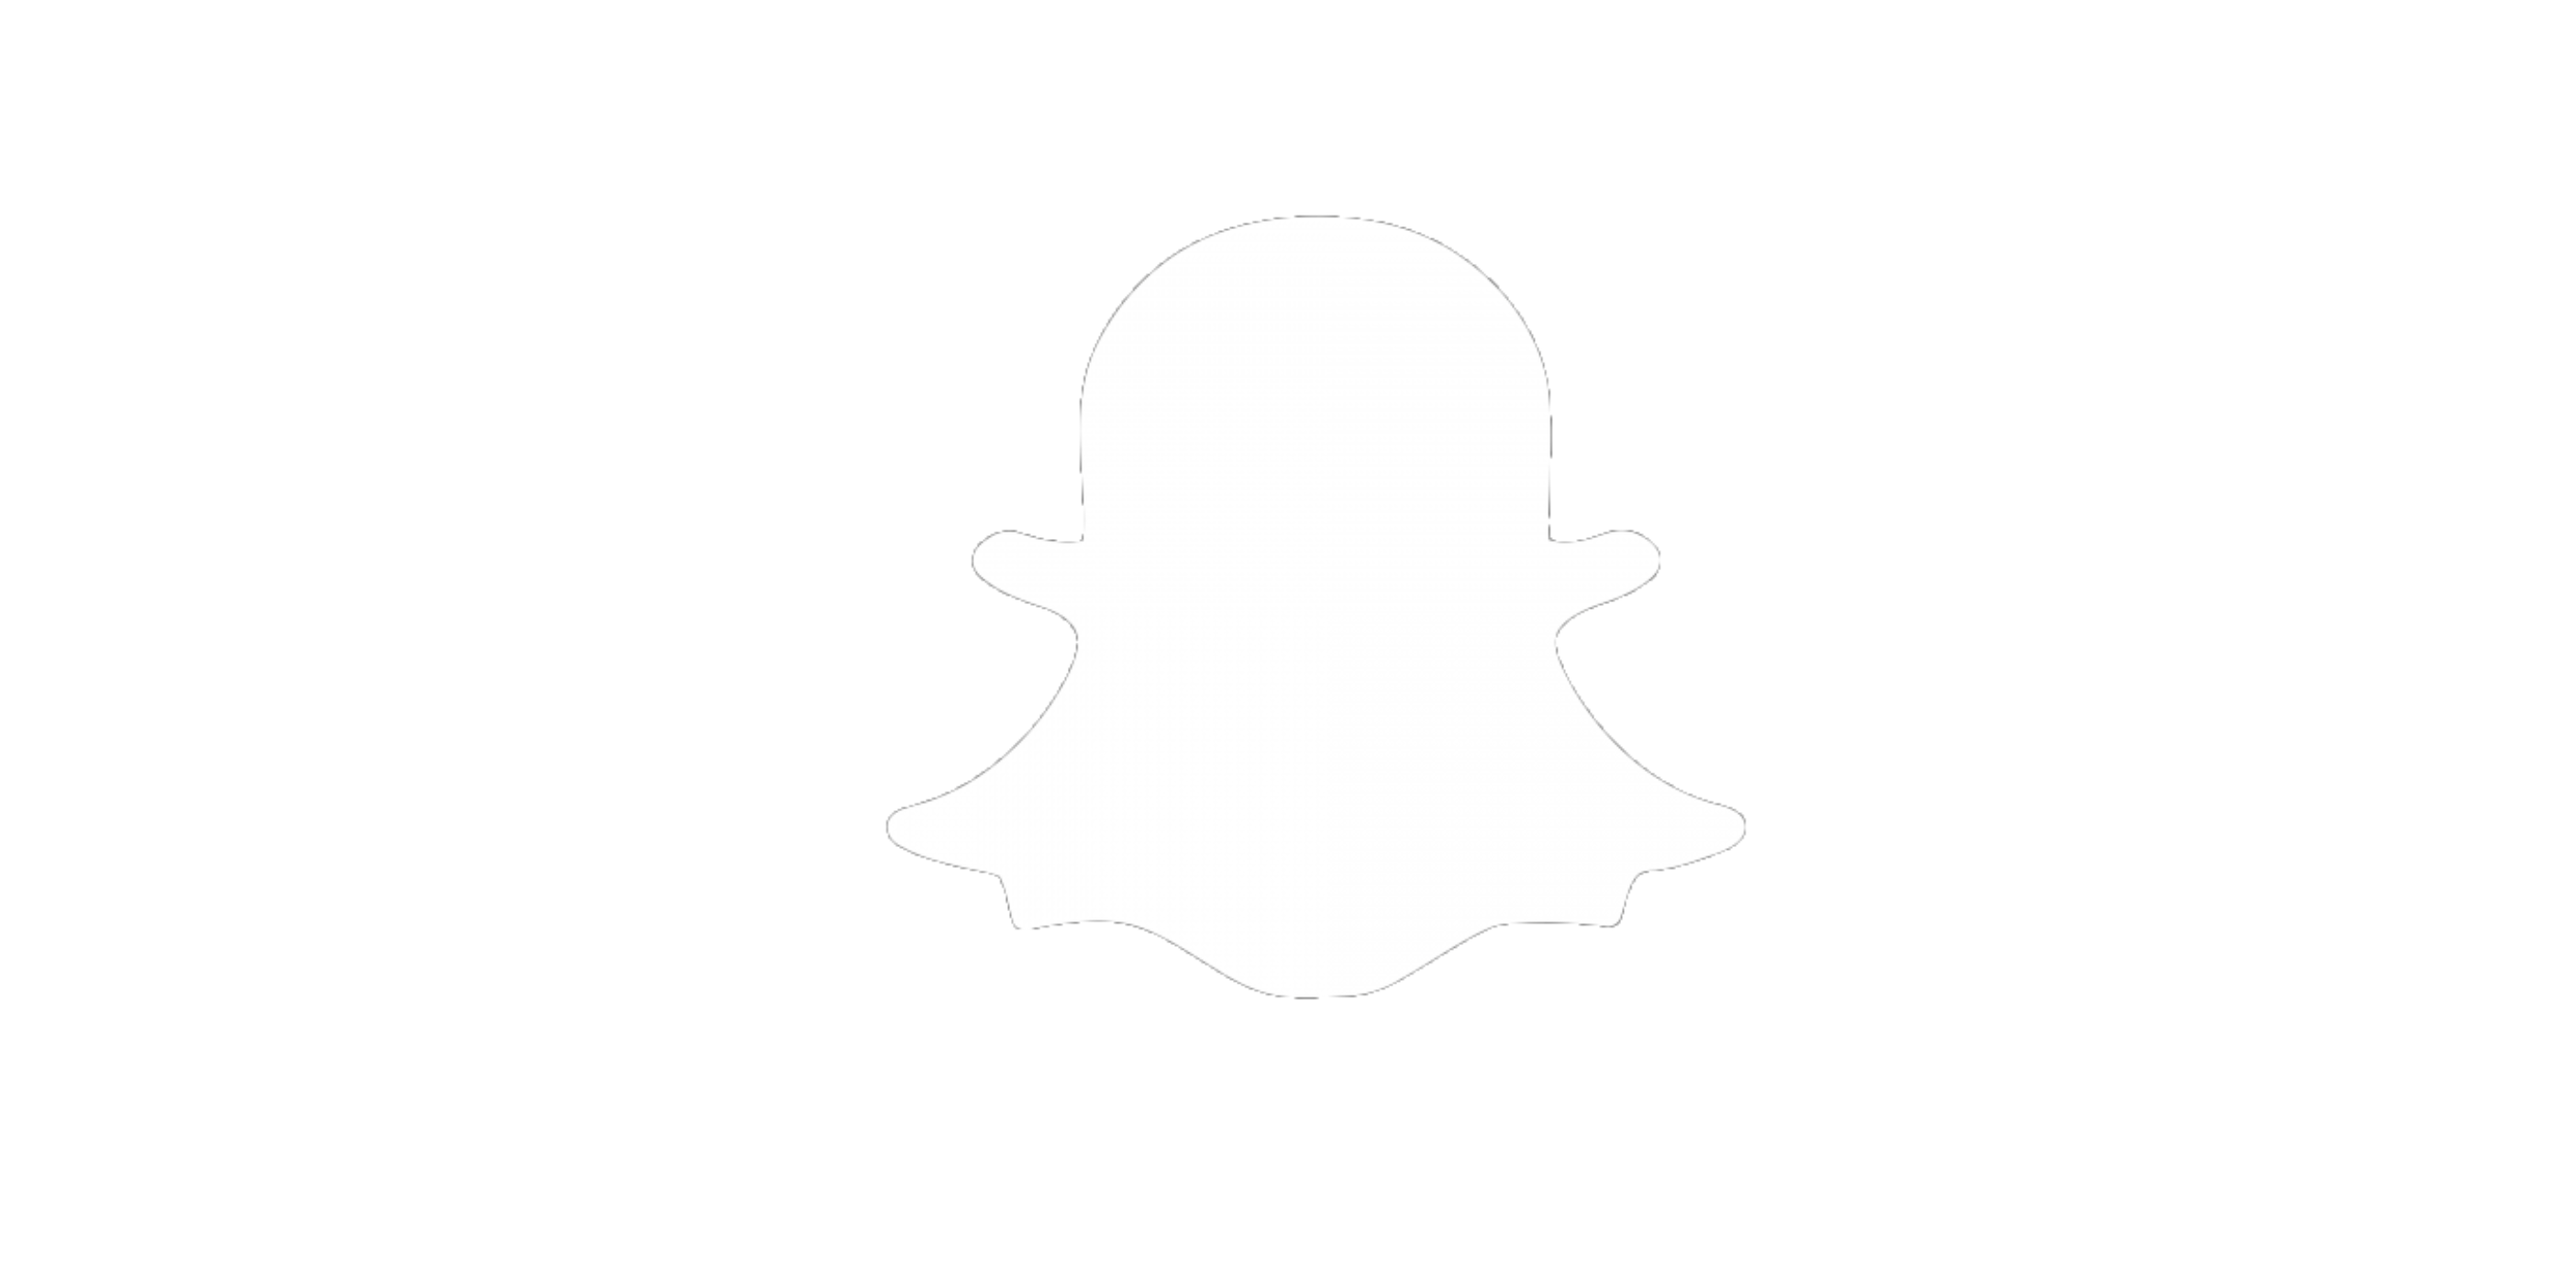
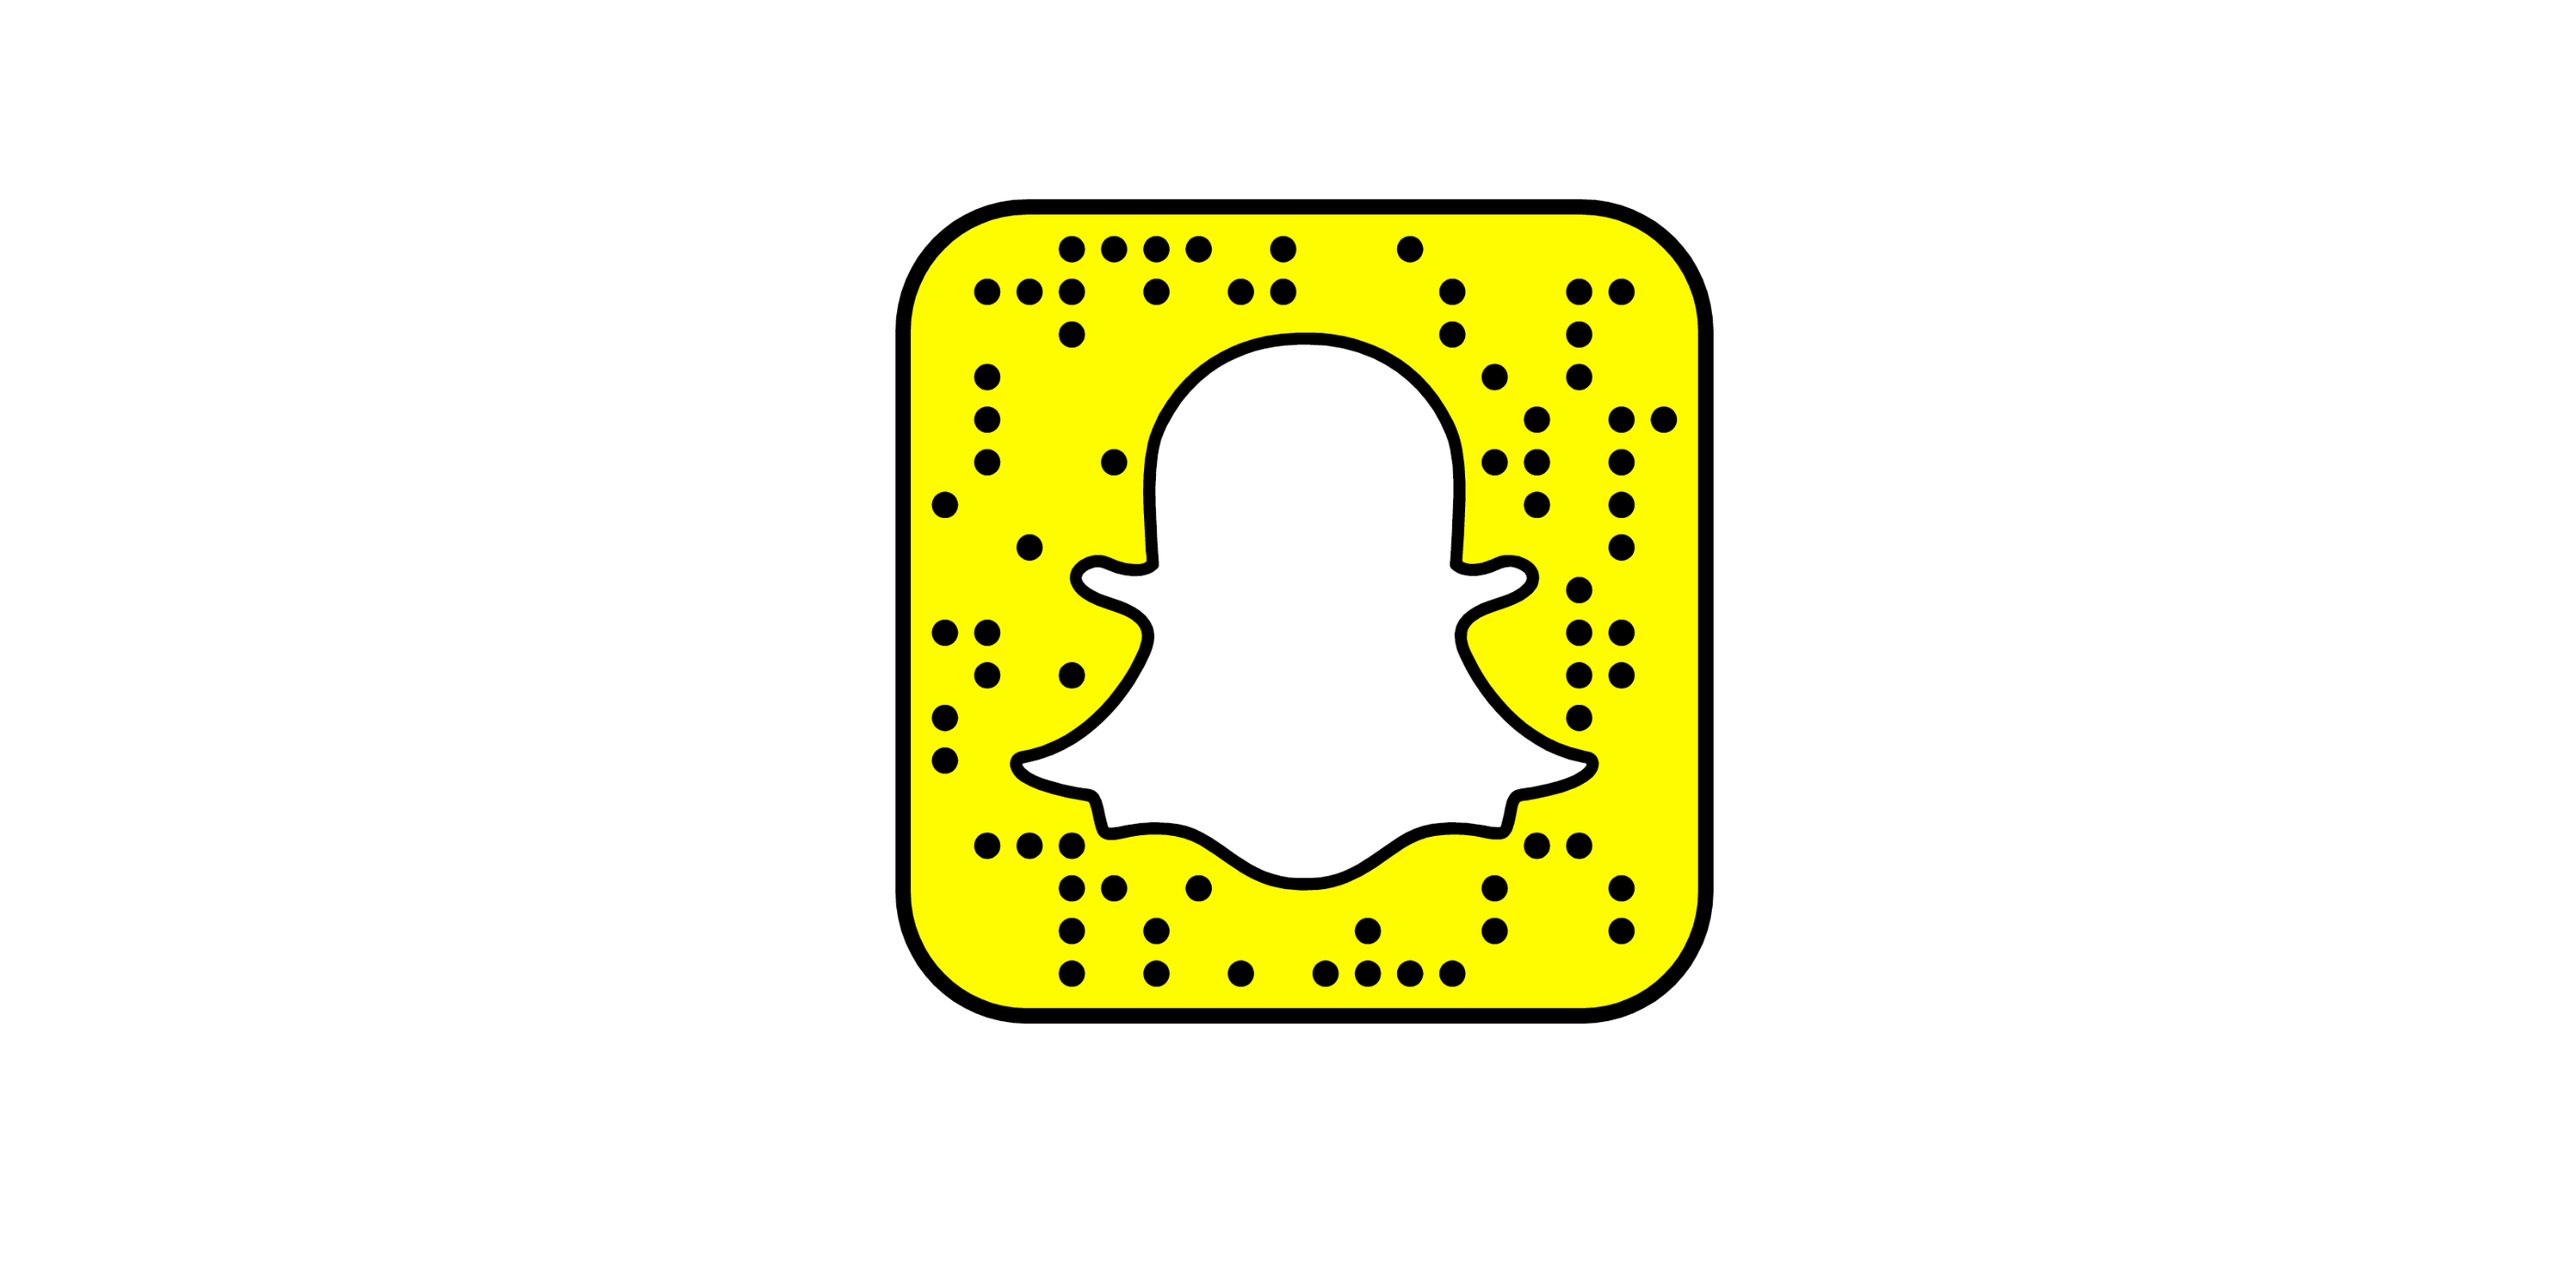
Home Page is finished

Changed region(s): [[0.3408, 0.1545, 0.6816, 0.8032]]

diff --git a/frontend/src/App.css b/frontend/src/App.css
@@ -120,7 +120,6 @@ input:checked + .slider_round:before {
 /*Forms*/
 Form{
     text-align: center;
-    /*border: 2px solid var(--accent);*/
     border-radius: 8px;
     margin: 2rem 10rem;
 }
@@ -170,13 +169,18 @@ Form Button{
 }
 
 .homePage button {
-    position:relative;
+    position: relative;
     padding: 0.5rem;
     font-size: 1rem;
     width: 100%;
     border: 1px solid var(--background);
     color: var(--text-font);
     background: var(--background);
+    cursor: pointer;
+}
+
+.homePage label {
+    color: var(--nav-font);
     cursor: pointer;
 }
 
@@ -204,71 +208,49 @@ Form Button{
 }
 
 .homeSection3 {
-    margin: 0rem 1rem;
-    height: 60rem;
     display: grid;
-    grid-template-columns: auto auto;
+    grid-template-columns: repeat(2, 1fr);
+    height: 60rem;
 }
-
-/*.homeSection3 img {
-    max-width: 150%;
-    max-height: 150%;
-}*/
 
 .homeCard1 {
     display: flex;
     flex-direction: column;
     justify-content: center;
     align-items: center;
-    border: 0rem solid var(--text-font);
-    margin-right: 0.5rem;
-    background: rgb(46, 46, 46);
-}
-
-/*.homeCard1 button {
-    position: relative;
-    opacity: 70%;
-    padding: 0.5rem;
-    font-size: 1rem;
-    top: 46px;
-    width: 100%;
-    border: 1px solid var(--background);
-    color: var(--text-font);
-    background: var(--background);
+    border-top: 1rem solid var(--text-font);
+    border-right: 0.5rem solid var(--text-font);
+    border-bottom: 0.5rem solid var(--text-font);
+    border-left: 1rem solid var(--text-font);
+    background: #1DA1F2;
     cursor: pointer;
-}*/
+}
 
 .homeCard2 {
     display: flex;
     flex-direction: column;
     justify-content: center;
     align-items: center;
-    border: 0rem solid var(--text-font);
-    margin-left: 0.5rem;
-    background: rgb(46, 46, 46);
-}
-
-/*.homeCard2 button {
-    position: relative;
-    opacity: 70%;
-    padding: 0.5rem;
-    font-size: 1rem;
-    top: 41px;
-    width: 100%;
-    border: 1px solid var(--background);
-    color: var(--text-font);
-    background: var(--background);
+    border: 1rem solid var(--text-font);
+    border-right: 1rem solid var(--text-font);
+    border-bottom: 0.5rem solid var(--text-font);
+    border-left: 0.5rem solid var(--text-font);
+    background: linear-gradient(to bottom right, #405DE6, #5B51D8, #833AB4,
+    #C13584, #E1306C, #FD1D1D, #F56040, #F77737, #FCAF45, #FFDC80);
     cursor: pointer;
-}*/
+}
 
 .homeCard3 {
     display: flex;
     flex-direction: column;
     justify-content: center;
     align-items: center;
-    border: 0rem solid var(--text-font);
-    margin-right: 0.5rem;
+    border: 0.5rem solid var(--text-font);
+    border-right: 0.5rem solid var(--text-font);
+    border-bottom: 1rem solid var(--text-font);
+    border-left: 1rem solid var(--text-font);
     background: rgb(46, 46, 46);
+    cursor: pointer;
 }
 
 .homeCard4 {
@@ -276,8 +258,11 @@ Form Button{
     flex-direction: column;
     justify-content: center;
     align-items: center;
-    border: 0rem solid var(--text-font);
-    margin-left: 0.5rem;
-    background: rgb(46, 46, 46);
+    border: 0.5rem solid var(--text-font);
+    border-right: 1rem solid var(--text-font);
+    border-bottom: 1rem solid var(--text-font);
+    border-left: 0.5rem solid var(--text-font);
+    background: #4267B2;
+    cursor: pointer;
 }
 /*End of Home Page*/

diff --git a/frontend/src/pages/home.js b/frontend/src/pages/home.js
@@ -7,7 +7,6 @@ function Home() {
                 <div className='homeSection1'>
                     <img src={require('./branding/decksImage.png')} alt='SKATE DECKS'/>
                     <button>SHOP NOW!</button>
-                    <span/>
                 </div>
             </Link>
             <div className='homeSection2'>
@@ -17,25 +16,22 @@ function Home() {
             <div className='homeSection3'>
                 <div className='homeCard1'>
                     <img src={require('./branding/twitter.png')} alt='TWITTER'/>
-                    <button>FOLLOW US ON TWITTER</button>
+                    <label>FOLLOW US ON TWITTER</label>
                 </div>
                 <div className='homeCard2'>
                     <img src={require('./branding/instagram.png')} alt='INSTAGRAM'/>
-                    <button>FOLLOW US ON INSTAGRAM</button>
+                    <label>FOLLOW US ON INSTAGRAM</label>
                 </div>
                 <div className='homeCard3'>
                     <img src={require('./branding/snapchat.png')} alt='SNAPCHAT'/>
-                    <button>FOLLOW US ON SNAPCHAT</button>
+                    <label>FOLLOW US ON SNAPCHAT</label>
                 </div>
                 <div className='homeCard4'>
                     <img src={require('./branding/facebook.png')} alt='FACEBOOK'/>
-                    <button>FOLLOW US ON FACEBOOK</button>
+                    <label>FOLLOW US ON FACEBOOK</label>
                 </div>
             </div>  
         </div>
     )
 }
 export default Home;
-/*<img src={require('./branding/decksImage.png')} alt='SKATE DECKS'/>*/
-/*<h2>BEST DEALS FOR COMPLETE SKATEBOARDS</h2>
-                    */

diff --git a/frontend/src/pages/store.js b/frontend/src/pages/store.js
@@ -26,4 +26,3 @@ function Store(){
     )
 }
 export default Store;
-// <img src={require(`'`+value.image_src+`'`)}></img>
